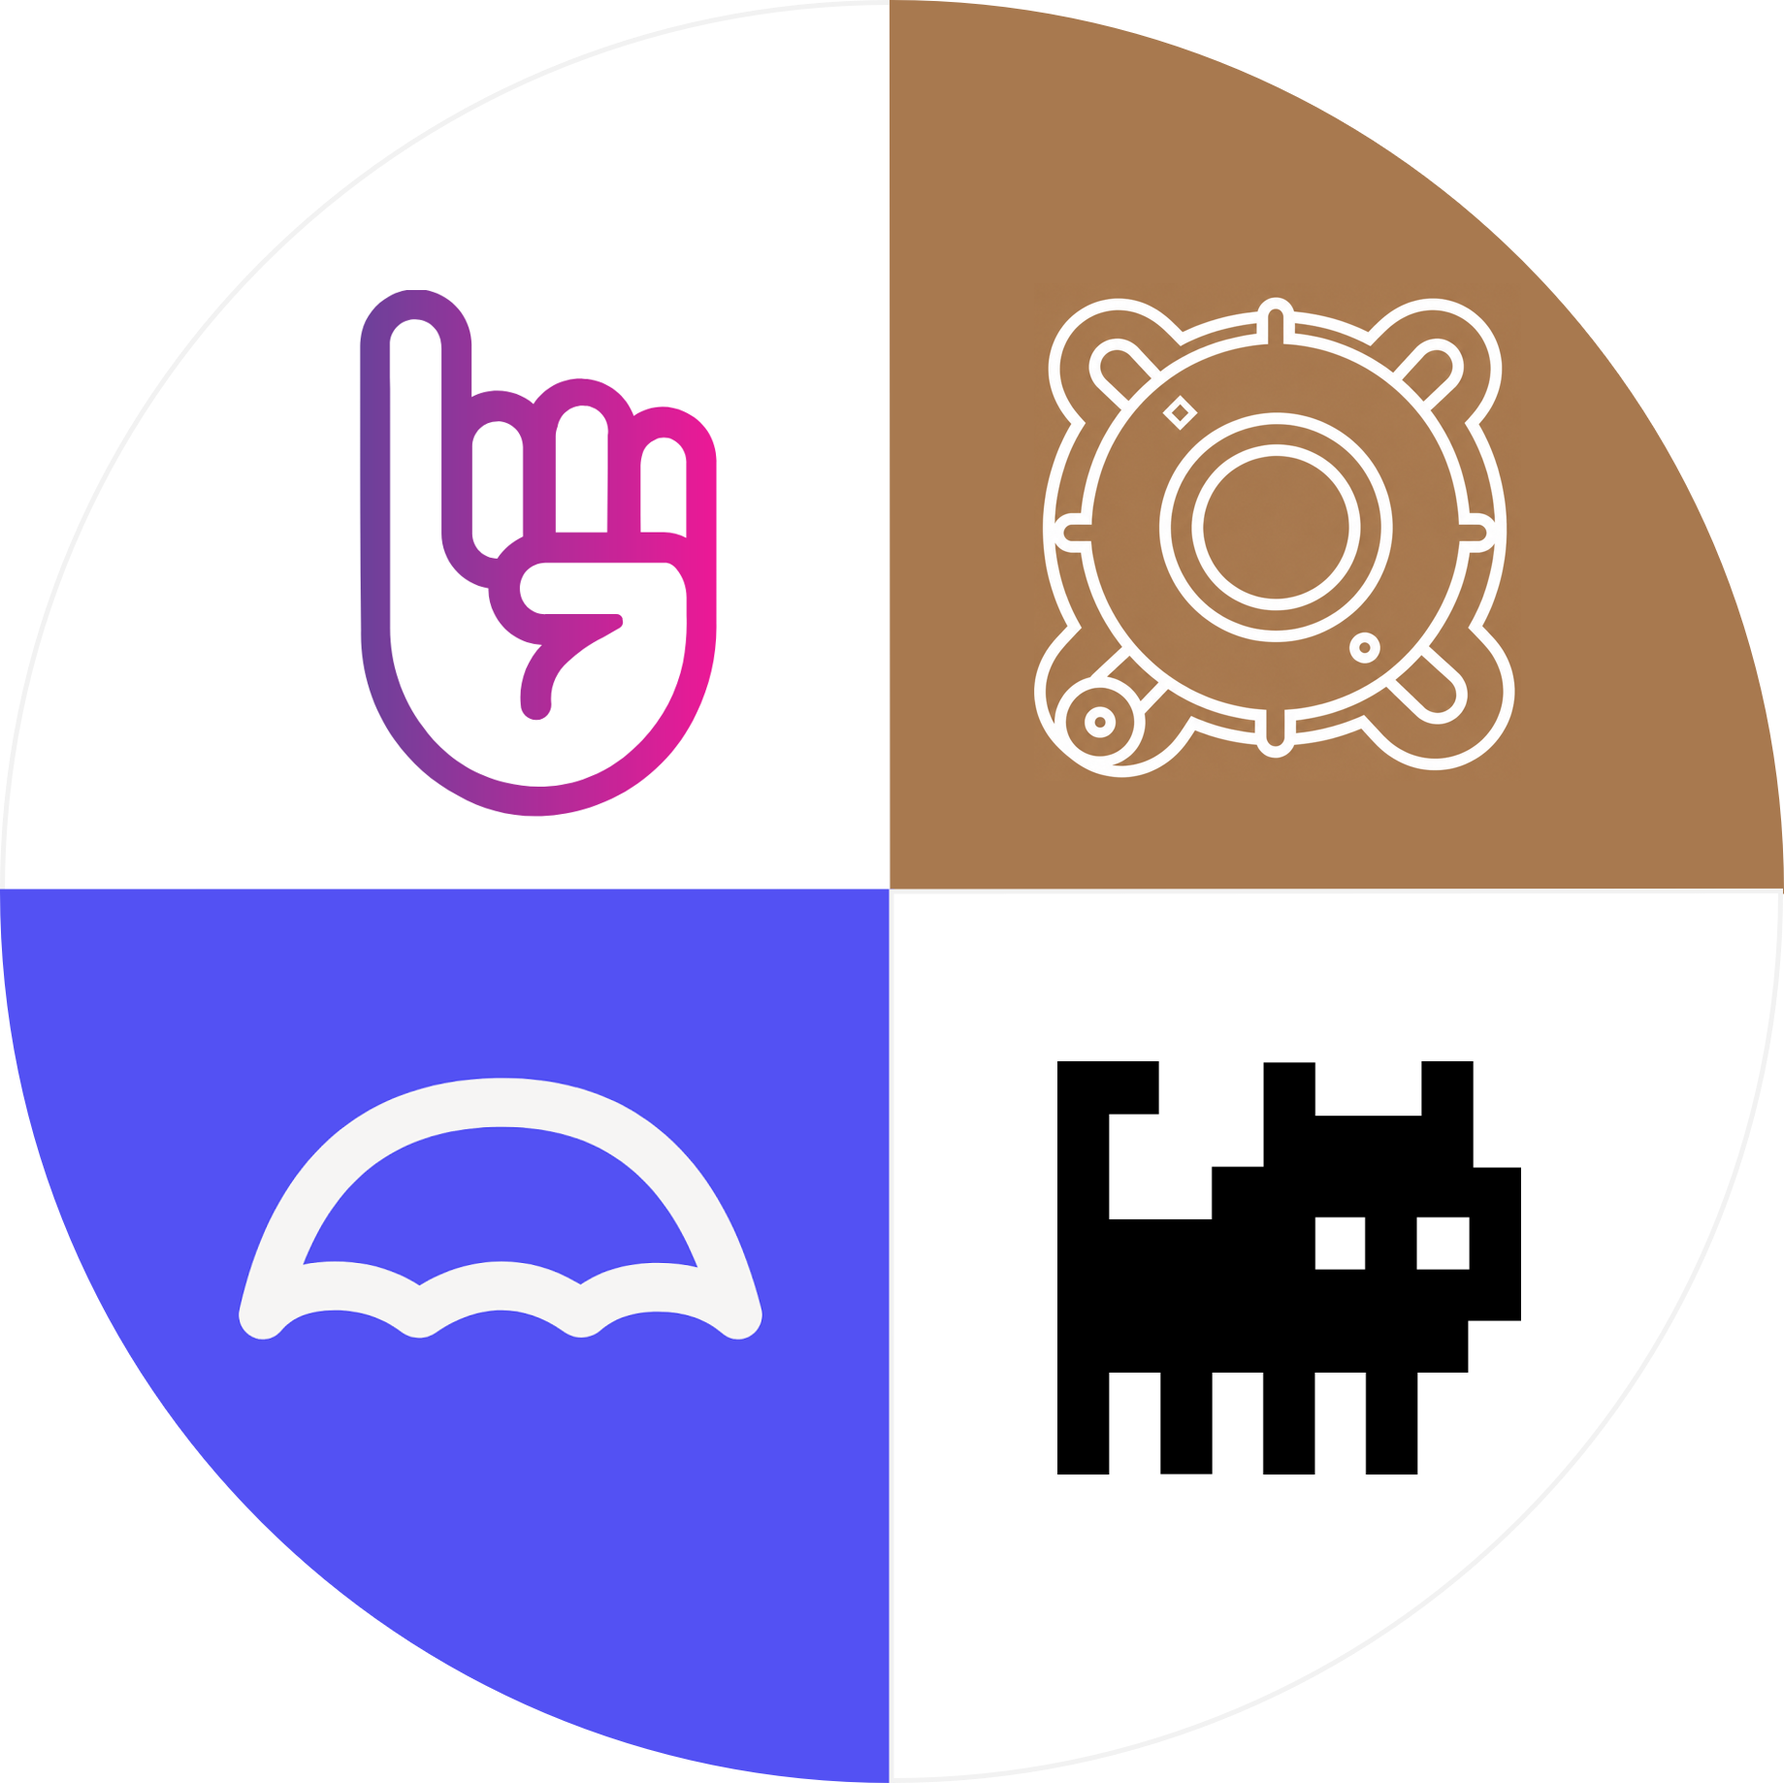
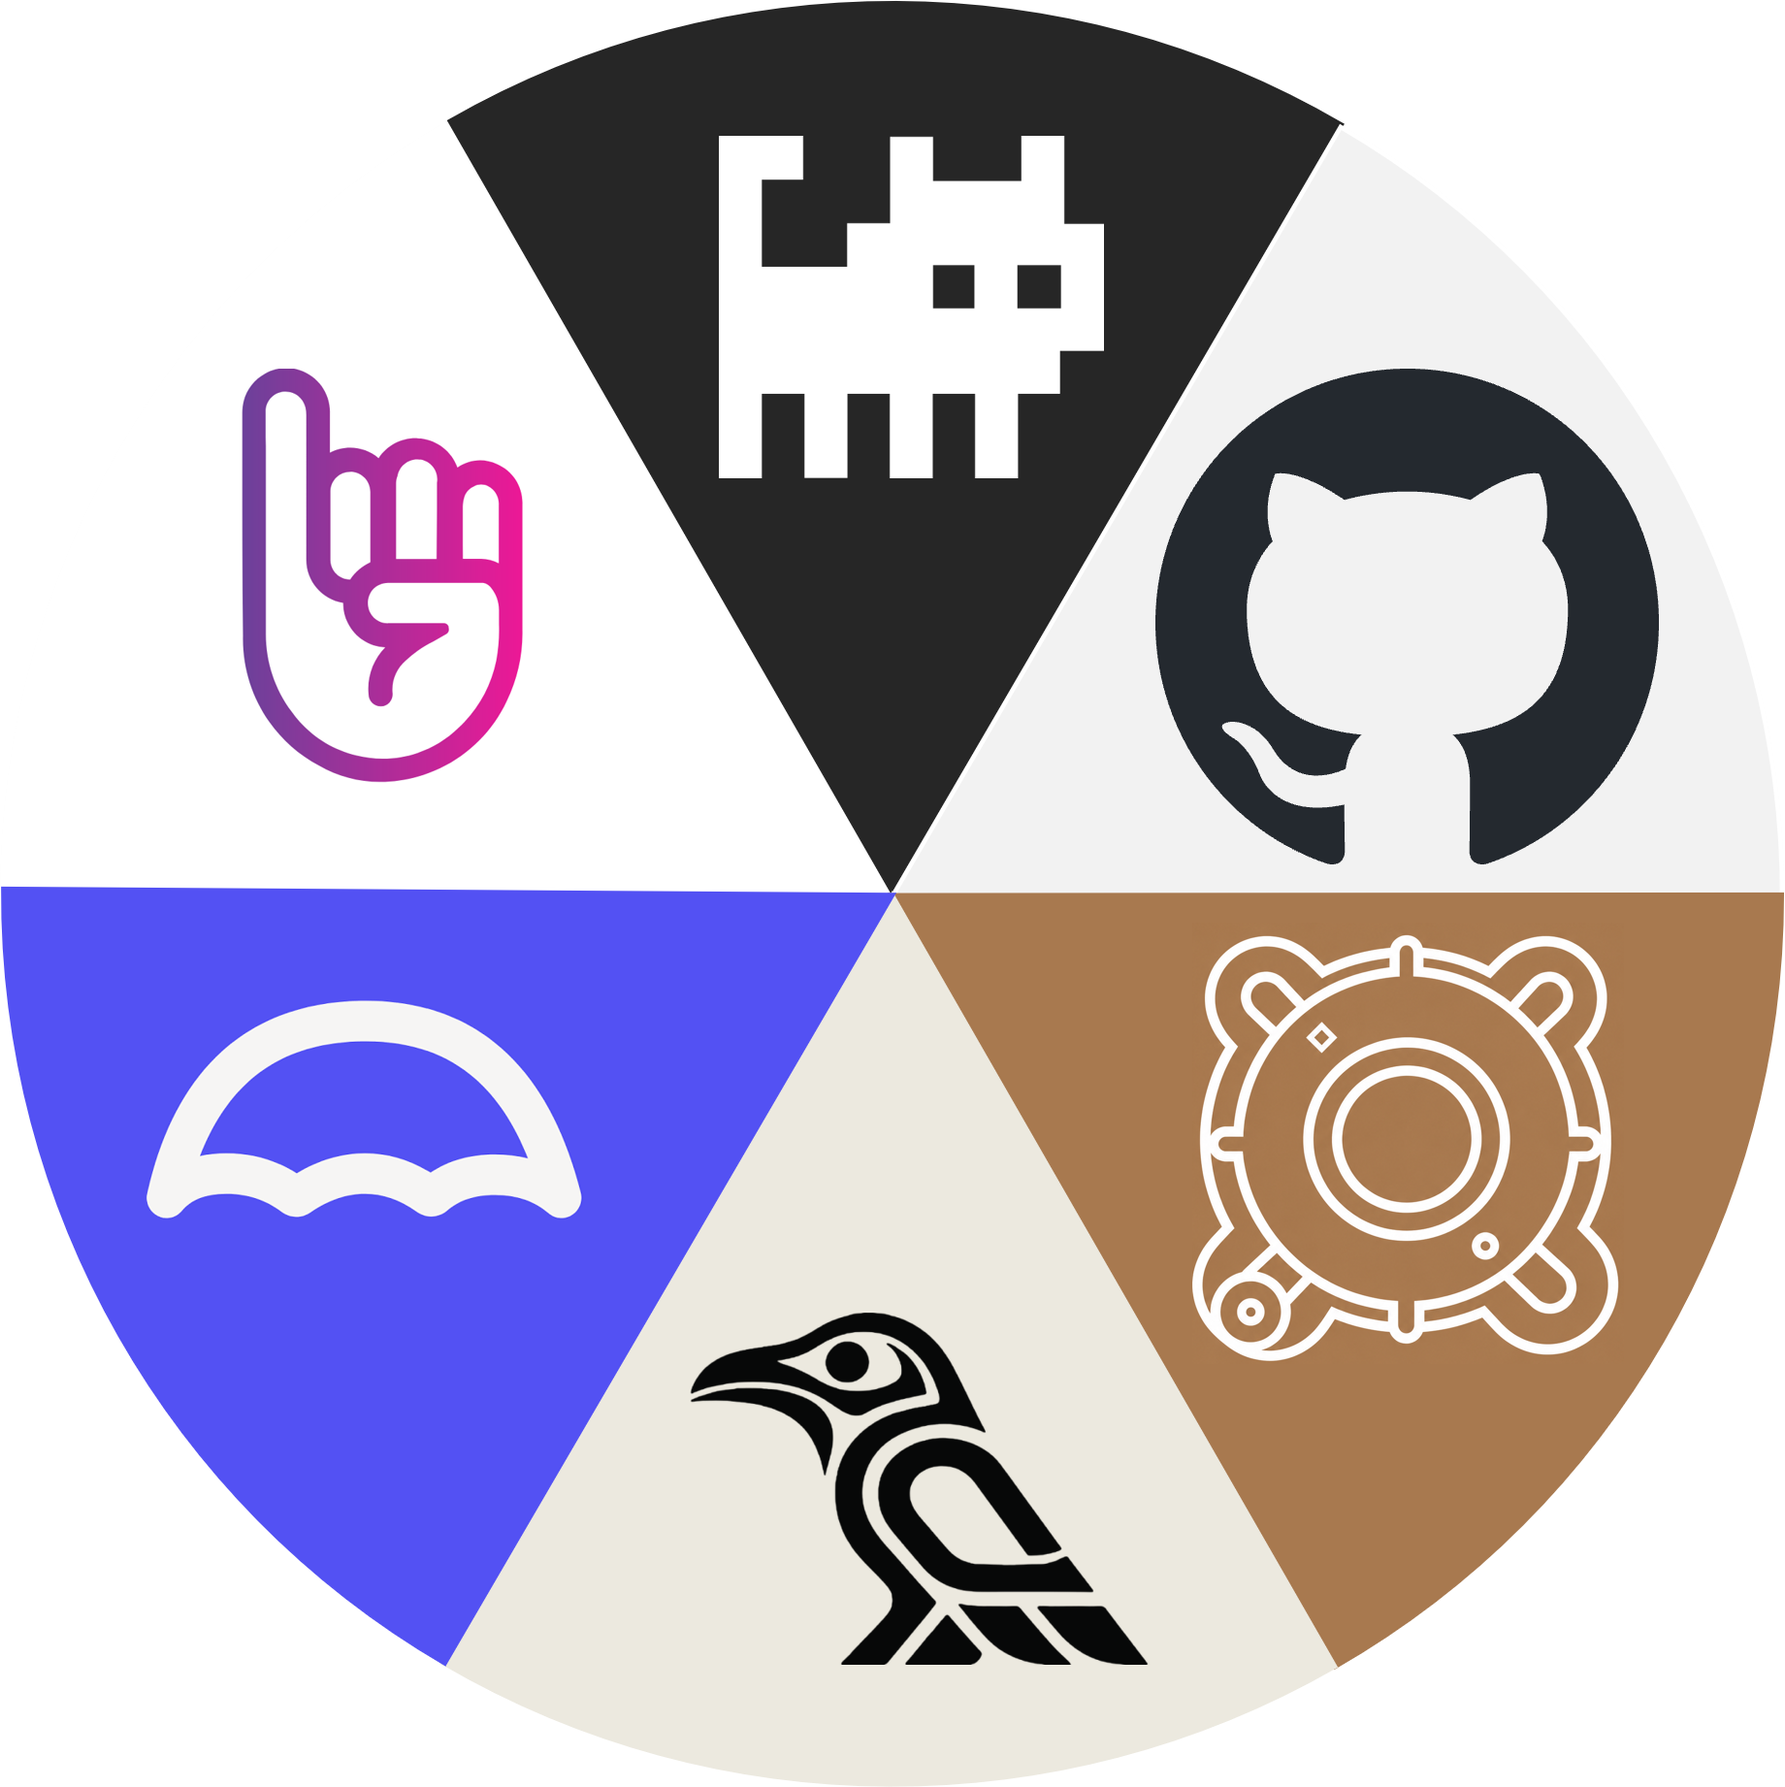
Reorganize guide pages around new index navbar
Apply index.html's new navbar (icons before labels; GitHub + Yeil and
Umbrel + Castell buttons) to every page. Add github.html for the GitHub +
Yeil guide, make umbrel.html the Umbrel + Castell page and remove
castell.html. Link index's buttons and list to the new pages. Includes
the wider page layout and new Yeil and pack images.

diff --git a/umbrel.html b/umbrel.html
@@ -4,31 +4,31 @@
       <meta charset="UTF-8">
       <script>(function(){var t=localStorage.getItem('theme');if(t)document.documentElement.setAttribute('data-theme',t);})();</script>
       <meta name="viewport" content="width=device-width, initial-scale=1.0">
-      <meta title="Umbrel - Handshake functional guide">
-      <meta description="Umbrel - A functional guide for Handshake users">
+      <meta title="Umbrel + Castell - Handshake functional guide">
+      <meta description="Umbrel + Castell - A functional guide for Handshake users">
       <meta name="lightning" content="lnurlp:galetaire@getalby.com"/>
       <meta property="og:site_name" content="Handshake functional guide"/>
-      <meta property="og:description" content="Umbrel - A functional guide for Handshake users" />
+      <meta property="og:description" content="Umbrel + Castell - A functional guide for Handshake users" />
       <meta property="og:image" content="https://raw.githubusercontent.com/galetaire/galetaireID/refs/heads/main/public/favicon.ico">
       <link href="https://fonts.googleapis.com/css2?family=Roboto:wght@400;700&display=swap" rel="stylesheet">
       <link href="http://fonts.googleapis.com/css?family=Questrial" rel="stylesheet" type="text/css">
       <link href="styles/style.css" rel="stylesheet" type="text/css">
-      <title>Umbrel - Handshake functional guide</title>
+      <title>Umbrel + Castell - Handshake functional guide</title>
 </head>
 <body>
-<h1>Host your node on your Umbrel</h1>
+<h1>Host a static HTTPS site with Umbrel and Castell</h1>
 <div class="navbar">
-  <button onclick="window.location.href='index.html'">Introduction <img src="images/handshake-mark.png" class="icon-inline" width="18px"/></button>
-  <button onclick="window.location.href='fingertip.html'">Fingertip <img src="images/fingertip-mark.png" class="icon-inline" width="18px"/></button>
-  <button onclick="window.location.href='bobwallet.html'">Bob wallet <img src="images/bob-mark.png" class="icon-inline" width="18px"/></button>
-  <button onclick="window.location.href='umbrel.html'">Umbrel <img src="images/umbrel-mark.png" class="icon-inline" width="18px"/></button>
-  <button onclick="window.location.href='castell.html'">Castell <img src="images/castell-mark.png" class="icon-inline" width="18px"/></button>
+  <button onclick="window.location.href='index.html'"><img src="images/handshake-mark.png" class="icon-inline" width="18px"/> Introduction</button>
+  <button onclick="window.location.href='fingertip.html'"><img src="images/fingertip-mark.png" class="icon-inline" width="18px"/> Fingertip</button>
+  <button onclick="window.location.href='bobwallet.html'"><img src="images/bob-mark.png" class="icon-inline" width="18px"/> Bob wallet</button>
+  <button onclick="window.location.href='github.html'"><img src="images/github-mark.svg" class="icon-inline" width="18px"/> GitHub + Yeil <img src="images/yeil-mark.png" class="icon-inline" width="20px"/></button>
+  <button onclick="window.location.href='umbrel.html'"><img src="images/umbrel-mark.png" class="icon-inline" width="18px"/> Umbrel + Castell <img src="images/castell-mark.png" class="icon-inline" width="18px"/></button>
   <button id="theme-toggle" class="theme-toggle" onclick="toggleTheme()" aria-label="Toggle theme">🌙</button>
 </div>
 
 <div class="intro">
-  <img src="images/umbrel-mark.png" alt="Umbrel">
-  <p><b>Umbrel</b> is a home server where you can run your own <b>Handshake</b> node, so you resolve names and check the blockchain yourself instead of relying on someone else's server.</p>
+  <img src="images/umbrel-mark.png" alt="Umbrel + Castell">
+  <p><b>Umbrel</b> is a home server where you can run your own <b>Handshake</b> node. With <b>Castell</b> running on it, you can host your own static <b>https</b> site on a Handshake name, secured with <b>DANE</b> instead of a certificate authority.</p>
 </div>
 
 <p><small>This guide is a work in progress, more steps coming soon.</small></p>

diff --git a/index.html b/index.html
@@ -18,26 +18,24 @@
 <body>
 <h1><img src="images/handshake-mark.png" class="icon-inline" width="40px"/> A functional guide for Handshake users</h1>
 <div class="navbar">
-  <button onclick="window.location.href='index.html'">Introduction <img src="images/handshake-mark.png" class="icon-inline" width="18px"/></button>
-  <button onclick="window.location.href='fingertip.html'">Fingertip <img src="images/fingertip-mark.png" class="icon-inline" width="18px"/></button>
-  <button onclick="window.location.href='bobwallet.html'">Bob wallet <img src="images/bob-mark.png" class="icon-inline" width="18px"/></button>
-  <button onclick="window.location.href='umbrel.html'">Umbrel <img src="images/umbrel-mark.png" class="icon-inline" width="18px"/></button>
-  <button onclick="window.location.href='castell.html'">Castell <img src="images/castell-mark.png" class="icon-inline" width="18px"/></button>
+  <button onclick="window.location.href='index.html'"><img src="images/handshake-mark.png" class="icon-inline" width="18px"/> Introduction</button>
+  <button onclick="window.location.href='fingertip.html'"><img src="images/fingertip-mark.png" class="icon-inline" width="18px"/> Fingertip</button>
+  <button onclick="window.location.href='bobwallet.html'"><img src="images/bob-mark.png" class="icon-inline" width="18px"/> Bob wallet</button>
+  <button onclick="window.location.href='github.html'"><img src="images/github-mark.svg" class="icon-inline" width="18px"/> GitHub + Yeil <img src="images/yeil-mark.png" class="icon-inline" width="20px"/></button>
+  <button onclick="window.location.href='umbrel.html'"><img src="images/umbrel-mark.png" class="icon-inline" width="18px"/> Umbrel + Castell <img src="images/castell-mark.png" class="icon-inline" width="18px"/></button>
   <button id="theme-toggle" class="theme-toggle" onclick="toggleTheme()" aria-label="Toggle theme">🌙</button>
 </div>
 
 <div class="intro">
   <img src="images/pack-mark.png" alt="Handshake">
-  <p><a href="bobwallet.html"><b>Handshake</b></a> is an alternative DNS system. This site is a practical guide to using Handshake in an approachable, self-hosted and sovereign way, from resolving names to self-hosting a static site over HTTPS.</p>
+  <p><a href="https://handshake.org/" target="_blank"><b>Handshake</b></a> is an alternative DNS system. This site is a practical guide to using Handshake in an approachable, self-hosted and sovereign way, from resolving names to self-hosting a static site over HTTPS.</p>
 </div>
 
 <ul class="contact-list">
   <li><img src="images/fingertip-mark.png" class="icon-inline" width="18px"/><a href="fingertip.html"><b>Fingertip</b></a>Resolve Handshake addresses</li>
   <li><img src="images/bob-mark.png" class="icon-inline" width="18px"/> <a href="bobwallet.html"><b>Bob Wallet</b></a>Store and manage your names</li>
-  <li><img src="images/github-mark.svg" class="icon-inline" width="18px"/> <a href="https://github.com/galetaire/homesite-hns#readme" target="_blank"><b>GitHub</b></a> Host an http site on GitHub Pages</li>
-  <li><img src="images/umbrel-mark.png" class="icon-inline" width="18px"/> <a href="umbrel.html"><b>Umbrel</b></a>Host your node on your Umbrel</li>
-  <li><img src="images/castell-mark.png" class="icon-inline" width="18px"/> <a href="castell.html"><b>Castell</b></a>Host a static https+DANE site on your Umbrel</li>
-
+  <li><img src="images/github-mark.svg" class="icon-inline" width="18px"/> <a href="github.html"><b>GitHub + Yeil</b></a> <img src="images/yeil-mark.png" class="icon-inline" width="20px"/> Host an http site on GitHub Pages</li>
+  <li><img src="images/umbrel-mark.png" class="icon-inline" width="18px"/> <a href="umbrel.html"><b>Umbrel + Castell</b> <img src="images/castell-mark.png" class="icon-inline" width="18px"/> </a>Host a static https+DANE site on your Umbrel</li>
 </ul>
 <!-- Footer-->
 <div id="footer">

diff --git a/github.html b/github.html
@@ -1,0 +1,41 @@
+<!DOCTYPE html>
+<html lang="en">
+<head>
+      <meta charset="UTF-8">
+      <script>(function(){var t=localStorage.getItem('theme');if(t)document.documentElement.setAttribute('data-theme',t);})();</script>
+      <meta name="viewport" content="width=device-width, initial-scale=1.0">
+      <meta title="GitHub + Yeil - Handshake functional guide">
+      <meta description="GitHub + Yeil - A functional guide for Handshake users">
+      <meta name="lightning" content="lnurlp:galetaire@getalby.com"/>
+      <meta property="og:site_name" content="Handshake functional guide"/>
+      <meta property="og:description" content="GitHub + Yeil - A functional guide for Handshake users" />
+      <meta property="og:image" content="https://raw.githubusercontent.com/galetaire/galetaireID/refs/heads/main/public/favicon.ico">
+      <link href="https://fonts.googleapis.com/css2?family=Roboto:wght@400;700&display=swap" rel="stylesheet">
+      <link href="http://fonts.googleapis.com/css?family=Questrial" rel="stylesheet" type="text/css">
+      <link href="styles/style.css" rel="stylesheet" type="text/css">
+      <title>GitHub + Yeil - Handshake functional guide</title>
+</head>
+<body>
+<h1>Host an HTTP site with GitHub Pages and Yeil</h1>
+<div class="navbar">
+  <button onclick="window.location.href='index.html'"><img src="images/handshake-mark.png" class="icon-inline" width="18px"/> Introduction</button>
+  <button onclick="window.location.href='fingertip.html'"><img src="images/fingertip-mark.png" class="icon-inline" width="18px"/> Fingertip</button>
+  <button onclick="window.location.href='bobwallet.html'"><img src="images/bob-mark.png" class="icon-inline" width="18px"/> Bob wallet</button>
+  <button onclick="window.location.href='github.html'"><img src="images/github-mark.svg" class="icon-inline" width="18px"/> GitHub + Yeil <img src="images/yeil-mark.png" class="icon-inline" width="20px"/></button>
+  <button onclick="window.location.href='umbrel.html'"><img src="images/umbrel-mark.png" class="icon-inline" width="18px"/> Umbrel + Castell <img src="images/castell-mark.png" class="icon-inline" width="18px"/></button>
+  <button id="theme-toggle" class="theme-toggle" onclick="toggleTheme()" aria-label="Toggle theme">🌙</button>
+</div>
+
+<div class="intro">
+  <img src="images/yeil-mark.png" alt="GitHub + Yeil">
+  <p>Host a free static site on <b>GitHub Pages</b> and point your <b>Handshake</b> name to it using <b>Yeil DNS</b>, which manages your records without taking custody of your name.</p>
+</div>
+
+<p><small>This guide is a work in progress, more steps coming soon.</small></p>
+<!-- Footer-->
+<div id="footer">
+  <script>document.write(new Date().getFullYear())</script> - You can fork this site on <a href="https://github.com/galetaire/homesite-hns" target="_blank">github.com/galetaire</a>.
+</div>
+<script src="theme.js" defer></script>
+</body>
+</html>

diff --git a/fingertip.html b/fingertip.html
@@ -18,11 +18,11 @@
 <body>
 <h1>Resolve Handshake names with Fingertip</h1>
 <div class="navbar">
-  <button onclick="window.location.href='index.html'">Introduction <img src="images/handshake-mark.png" class="icon-inline" width="18px"/></button>
-  <button onclick="window.location.href='fingertip.html'">Fingertip <img src="images/fingertip-mark.png" class="icon-inline" width="18px"/></button>
-  <button onclick="window.location.href='bobwallet.html'">Bob wallet <img src="images/bob-mark.png" class="icon-inline" width="18px"/></button>
-  <button onclick="window.location.href='umbrel.html'">Umbrel <img src="images/umbrel-mark.png" class="icon-inline" width="18px"/></button>
-  <button onclick="window.location.href='castell.html'">Castell <img src="images/castell-mark.png" class="icon-inline" width="18px"/></button>
+  <button onclick="window.location.href='index.html'"><img src="images/handshake-mark.png" class="icon-inline" width="18px"/> Introduction</button>
+  <button onclick="window.location.href='fingertip.html'"><img src="images/fingertip-mark.png" class="icon-inline" width="18px"/> Fingertip</button>
+  <button onclick="window.location.href='bobwallet.html'"><img src="images/bob-mark.png" class="icon-inline" width="18px"/> Bob wallet</button>
+  <button onclick="window.location.href='github.html'"><img src="images/github-mark.svg" class="icon-inline" width="18px"/> GitHub + Yeil <img src="images/yeil-mark.png" class="icon-inline" width="20px"/></button>
+  <button onclick="window.location.href='umbrel.html'"><img src="images/umbrel-mark.png" class="icon-inline" width="18px"/> Umbrel + Castell <img src="images/castell-mark.png" class="icon-inline" width="18px"/></button>
   <button id="theme-toggle" class="theme-toggle" onclick="toggleTheme()" aria-label="Toggle theme">🌙</button>
 </div>
 

diff --git a/bobwallet.html b/bobwallet.html
@@ -18,11 +18,11 @@
 <body>
 <h1>Store and manage your names with Bob</h1>
 <div class="navbar">
-  <button onclick="window.location.href='index.html'">Introduction <img src="images/handshake-mark.png" class="icon-inline" width="18px"/></button>
-  <button onclick="window.location.href='fingertip.html'">Fingertip <img src="images/fingertip-mark.png" class="icon-inline" width="18px"/></button>
-  <button onclick="window.location.href='bobwallet.html'">Bob wallet <img src="images/bob-mark.png" class="icon-inline" width="18px"/></button>
-  <button onclick="window.location.href='umbrel.html'">Umbrel <img src="images/umbrel-mark.png" class="icon-inline" width="18px"/></button>
-  <button onclick="window.location.href='castell.html'">Castell <img src="images/castell-mark.png" class="icon-inline" width="18px"/></button>
+  <button onclick="window.location.href='index.html'"><img src="images/handshake-mark.png" class="icon-inline" width="18px"/> Introduction</button>
+  <button onclick="window.location.href='fingertip.html'"><img src="images/fingertip-mark.png" class="icon-inline" width="18px"/> Fingertip</button>
+  <button onclick="window.location.href='bobwallet.html'"><img src="images/bob-mark.png" class="icon-inline" width="18px"/> Bob wallet</button>
+  <button onclick="window.location.href='github.html'"><img src="images/github-mark.svg" class="icon-inline" width="18px"/> GitHub + Yeil <img src="images/yeil-mark.png" class="icon-inline" width="20px"/></button>
+  <button onclick="window.location.href='umbrel.html'"><img src="images/umbrel-mark.png" class="icon-inline" width="18px"/> Umbrel + Castell <img src="images/castell-mark.png" class="icon-inline" width="18px"/></button>
   <button id="theme-toggle" class="theme-toggle" onclick="toggleTheme()" aria-label="Toggle theme">🌙</button>
 </div>
 

diff --git a/styles/style.css b/styles/style.css
@@ -98,7 +98,7 @@ html {
 }
 
 body {
-  max-width: 760px;
+  max-width: 860px;
   width: 100%;
   margin: 0 auto;
   padding: 48px 20px 32px;
